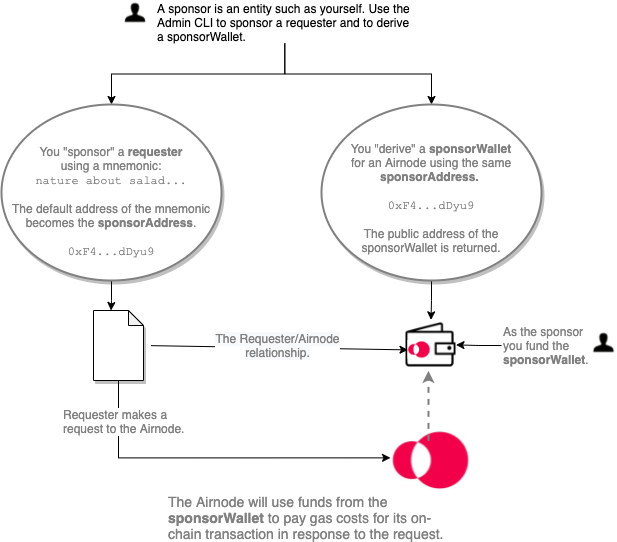
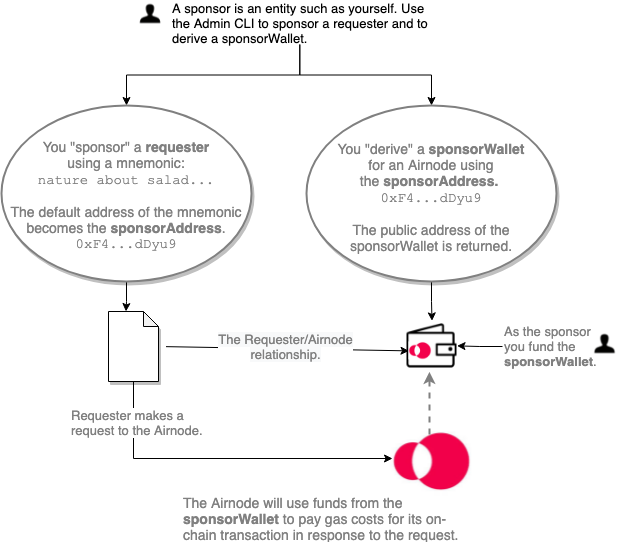
Adjustments to how sponsorships work. This is not the final pass but a basic correction of the concepts. A final pass is need to compress the idea of sponsoring a requester (via a mnemonic) with a `sponsorAddress`.

diff --git a/docs/airnode/v0.3/grp-developers/requesters-sponsors.md b/docs/airnode/v0.3/grp-developers/requesters-sponsors.md
@@ -9,8 +9,8 @@ title: Requesters and Sponsors
 
 As a developer it helps to understand what a **requester** is and what a
 **sponsor** does. They are both important parts of the Airnode ecosystem. This
-doc will further define them and walk you through the process to derive a
-sponsor wallet and to sponsor a requester using the admin CLI commands.
+doc will further define them and walk you through the process of sponsoring a
+requester and deriving a sponsor wallet using the admin CLI commands.
 
 ## What is a Requester?
 
@@ -31,24 +31,21 @@ between requesters and Airnodes.
 
 ### Sponsor's Requester/Airnode Relationships
 
-As a sponsor you will use the address of an Ethereum account _(called a
-[`sponsorAddress`](../concepts/sponsor.md#sponsoraddress))_ from a digital
-wallet you own to "sponsor a requester" and then with the same `sponsorAddress`
-"derive a [`sponsorWallet`](../concepts/sponsor.md#sponsorwallet)" for an
-Airnode. This action creates a relationship between a sponsor's requester and a
-particular Airnode. You do this because a sponsor is the entity that pays for
-the fulfillment of a request, the gas costs the Airnode will incur. These costs
-will be withdrawn from the `sponsorWallet` of the Airnode when the requester
-calls it.
+As a sponsor you will use the mnemonic from a digital wallet you own to
+"**sponsor a requester**" and then use its default account as a
+[sponsorAddress](../concepts/sponsor.md#sponsoraddress) to "**derive a
+[sponsorWallet](../concepts/sponsor.md#sponsorwallet)**" for an Airnode. This
+action creates a relationship between a sponsor's requester and a particular
+Airnode. You do this because a sponsor is the entity that pays for the
+fulfillment of a request, the gas costs the Airnode will incur. These costs will
+be withdrawn from the `sponsorWallet` of the Airnode when the requester calls
+it.
 
 In the diagram below a sponsor uses a mnemonic to sponsor a requester with the
 Admin CLI. The CLI will use the default address of the mnemonic as the
 `sponsorAddress` for the sponsorship. Next the sponsor will derive a
-`sponsorWallet` for an Airnode using the same `sponsorAddress`.
-
-Because the requester was sponsored with the same `sponsorAddress` that was used
-to derive the `sponsorWallet` of the Airnode, the requester can now make
-requests of the Airnode.
+`sponsorWallet` for an Airnode using the `sponsorAddress`. The requester can now
+make requests of the Airnode.
 
 > ![image](../assets/images/sponsor-overview.png)
 
@@ -56,35 +53,45 @@ requests of the Airnode.
 
 In the above diagram it is possible to use the same sponsorAddress
 `(0xF4...dDyu9)` to derive other sponsor wallets for other Airnodes. And it is
-possible to sponsor more than one requester with this same sponsorAddress.
-However it is important to remember that all requesters can now access all the
-Airnodes regardless if they need to. There is no harm in this scenario.
+possible to sponsor more than one requester with the same mnemonic. However it
+is important to remember that all requesters can now access all the Airnodes
+regardless if they need to. There is no harm in this scenario.
 
 ### Advanced Scenarios
 
-- Two requesters sponsored with the same sponsorAddress `(0xF4...dDyu9)` could
-  access the same Airnode having a sponsor wallet derived by sponsorAddress
-  `(0xF4...dDyu9)`.
+- **Two requesters, one Airnode, one sponsorWallet**:
 
-- Using two separate sponsorAddresses (from two different Ethereum accounts),
-  you can derive two separate sponsor wallets for the same Airnode, say
-  `(0xF4...dDyu9)` and `(0xG9...fFzc5)`. Then you can sponsor one requester each
-  with `(0xF4...dDyu9)` and the other with `(0xG9...fFzc5)`. Now each requester
-  will deplete funds from a separate sponsor wallet.
+  Two requesters sponsored with the same mnemonic, which returns a
+  `sponsorAddress` (e.g., `0xF4...dDyu9`), would access the same Airnode using a
+  single sponsorWallet derived by the sponsorAddress.
 
-- You have derived two sponsor wallets for two different Airnodes using
-  different sponsorAddresses, say `(0xF4...dDyu9)` and `(0xG9...fFzc5)`. You
-  have one requester that needs to makes requests from each Airnode. Simply
-  sponsor the requester twice with both sponsorAddresses.
+- **Two requesters, one Airnode, two sponsorWallets**:
+
+  Sponsor two different requesters with different mnemonics which results in
+  each having a separate `sponsorAddress` (e.g., `0xF4...dDyu9` and
+  `0xG9...fFzc5`). Using these separate sponsorAddresses you can derive two
+  separate sponsorWallets for the same Airnode. Now each requester will deplete
+  funds from a separate Airnode sponsorWallet when using the Airnode.
+
+- **One requester, two Airnodes, two sponsorWallets**:
+
+  A requester can make requests from two different Airnodes. Sponsor the
+  requester with a mnemonic where the resulting sponsorship returns a
+  `sponsorAddress`. Derive two sponsorWallets, one for each of two the Airnodes,
+  using the `sponsorAddress`. Despite the fact that the sponsorWallet for each
+  Airnode was derived with the same `sponsorAddress`, the sponsorWallets are
+  different since they are derived using the airnode's xpub plus the
+  `sponsorAddress`. The sponsor must fund both wallets separately using the
+  unique `sponsorWalletAddress` of the two sponsorWallets.
 
 ### Things to Remember
 
-When you sponsor a requester with a sponsorAddress, you are giving it permission
-to use the sponsor wallet associated with the Airnode (created with the same
-sponsorAddress).
+When you sponsor a requester with a mnemonic (returning a `sponsorAddress`), you
+are giving it permission to use the sponsorWallet (associated with a Airnode)
+that was derived using the same `sponsorAddress`.
 
 When the requester makes a request to the Airnode, the Airnode will use funds
-from the corresponding sponsor wallet to pay gas costs in response to the
+from the corresponding sponsorWallet to pay gas costs in response to the
 request. Therefore the sponsor pays for the fulfillment of the request.
 
 ## Admin CLI Commands
@@ -94,35 +101,35 @@ There are several sponsor and requester related commands in the
 see a list of available commands using `npx @api3/airnode-admin --help`.
 
 In the next two sections of this doc you will use two commands from the
-@api3/airnode-admin package to _sponsor a requester_ and to _derive a sponsor
+`@api3/airnode-admin` package to _sponsor a requester_ and to _derive a sponsor
 wallet_.
 
-1. [`sponsor-requester`](../reference/packages/admin-cli.md#sponsor-requester)
+1. [sponsor-requester](../reference/packages/admin-cli.md#sponsor-requester)
    sponsors a requester.
-2. [`derive-sponsor-wallet-address`](../reference/packages/admin-cli.md#derive-sponsor-wallet-address)creates
+2. [derive-sponsor-wallet-address](../reference/packages/admin-cli.md#derive-sponsor-wallet-address)creates
    a sponsor wallet associated with an Airnode.
 
 ## How to Sponsor a Requester
 
-When a sponsor uses the same `sponsorAddress` to "sponsor a requester" and to
-"derive a sponsor wallet" for an Airnode, the requester will have permission to
-make requests to the Airnode on behave of the sponsor. This allows the sponsor
-to cover the gas costs incurred by the Airnode when responding to the request.
-Sponsors need to keep their sponsor wallets topped off if they want Airnodes to
-fulfill requests made by their requesters. However this does not cover the cost
-of API data that the Airnode serves, see
+When a sponsor uses a mnemonic to "sponsor a requester" and the resulting
+'sponsorAddress` to "derive a sponsorWallet" for an Airnode, the requester will
+have permission to make requests to the Airnode on behave of the sponsor. This
+allows the sponsor to cover the gas costs incurred by the Airnode when
+responding to the request. Sponsors need to keep their sponsorWallets topped off
+if they want Airnodes to fulfill requests made by their requesters. However this
+does not cover the cost of API data that the Airnode serves, see
 [API Provider Fees](fees.md#api-provider-fees).
 
 To sponsor a requester execute the `sponsor-requester` command using the
 parameters detailed in the list below. Your requester should already be deployed
 on-chain. This command has transaction gas costs.
 
-- `providerURL` A blockchain provider URL (such as Infura) with providerID for
+- `providerURL`: A blockchain provider URL (such as Infura) with providerID for
   the desired network.
-- `mnemonic` Used for gas costs to fund the sponsorship and used to derive the
-  `sponsorAddress` from the default address. The `sponsorAddress` will be needed
-  to derive a `sponsorWallet` for an Airnode.
-- `requesterAddress` The address of the requester contract.
+- `mnemonic`: Used for gas costs to fund the sponsorship and used to derive the
+  sponsorAddress from the default address. The sponsorAddress will be needed to
+  derive a sponsorWallet for an Airnode.
+- `requesterAddress`: The address of the requester contract.
 
 The command `sponsor-requester` will return the requesterAddress and
 sponsorAddress.
@@ -132,9 +139,9 @@ sponsorAddress.
 ::: tab Linux/Mac
 
 ```bash
-npx @api3/airnode-admin sponsor-requester ^
-  --providerUrl https://ropsten.infura.io/v3/<KEY> ^
-  --mnemonic "cricket...oppose" ^
+npx @api3/airnode-admin sponsor-requester \
+  --providerUrl https://ropsten.infura.io/v3/<KEY> \
+  --mnemonic "cricket...oppose" \
   --requester 0x2c...gDER7
 
 Requester 0x2c...gDER7 sponsored using sponsorAddress 0xF4...dDyu9
@@ -145,9 +152,9 @@ Requester 0x2c...gDER7 sponsored using sponsorAddress 0xF4...dDyu9
 ::: tab Windows
 
 ```
-npx @api3/airnode-admin sponsor-requester \
-  --providerUrl https://ropsten.infura.io/v3/<KEY> \
-  --mnemonic "cricket...oppose" \
+npx @api3/airnode-admin sponsor-requester ^
+  --providerUrl https://ropsten.infura.io/v3/<KEY> ^
+  --mnemonic "cricket...oppose" ^
   --requester 0x2c...gDER7
 
 Requester 0x2c...gDER7 sponsored using sponsorAddress 0xF4...dDyu9
@@ -159,24 +166,26 @@ Requester 0x2c...gDER7 sponsored using sponsorAddress 0xF4...dDyu9
 
 ## How to Derive a Sponsor Wallet
 
-To use a particular Airnode you must _derive a sponsor wallet_. Once the sponsor
-wallet is created it must be funded using the public address returned by the
-command`derive-sponsor-wallet-address`. Each Airnode keeps a separate list of
-individual sponsor wallets that can access the Airnode. Learn more about
-[sponsor wallets](../concepts/sponsor.md#sponsorwallet).
+To use a particular Airnode you must _derive a sponsorWallet_. Once the
+sponsorWallet is created it must be funded using the public address
+(`sponsorWalletAddress`) returned by the command`derive-sponsor-wallet-address`.
+Each Airnode keeps a separate list of individual sponsorWallets that can access
+the Airnode. Learn more about a
+[sponsorWallet](../concepts/sponsor.md#sponsorwallet).
 
-To derive a sponsor wallet for an Airnode execute the
+To derive a sponsorWallet for an Airnode execute the
 `derive-sponsor-wallet-address` command using the parameters detailed in the
 list below. There are no transaction gas costs to do so.
 
-- `providerURL` a blockchain provider URL (such as Infura) with providerID for a
-  desired network
-- `airnode` of address the desired Airnode
-- `sponsor` the sponsorAddress (an address of an Ethereum account) owned by a
-  sponsor
+- `providerURL`: A blockchain provider URL (such as Infura) with providerID for
+  a desired network.
+- `airnode`: The address of the desired Airnode.
+- `sponsor`: The sponsorAddress (an address of an Ethereum account) owned by a
+  sponsor. Usually the sponsorAddress is the one returned when sponsoring a
+  requester.
 
-The command `derive-sponsor-wallet-address` will return the public address of
-the sponsor wallet to be funded by the sponsor.
+The command `derive-sponsor-wallet-address` will return the public address
+(`sponsorWalletAddress`) of the sponsorWallet to be funded by the sponsor.
 
 :::: tabs
 
@@ -208,26 +217,27 @@ Sponsor wallet address: 0x14D5a34E5a370b9951Fef4f8fbab2b1016D557d9
 
 ::::
 
-If you forget the public address of the sponsor wallet simply run
-`derive-sponsor-wallet-address` again. Since the wallet already exists for the
-airnodeAddress/sponsorAddress pair it will just return the address.
+If you forget the public address (`sponsorWalletAddress`) of the sponsorWallet
+simply run `derive-sponsor-wallet-address` again. Since the wallet already
+exists for the airnodeAddress/sponsorAddress pair it will just return the
+address.
 
 <SponsorWalletWarning/>
 
 ## Record Keeping
 
-During and after deriving a sponsor wallets and sponsoring requesters there are
-a few things to keep track of.
+During and after deriving a sponsorWallet and sponsoring requesters there are a
+few things to keep track of.
 
-| Item            | Description                                                                                                                                                                                                                                 |
-| --------------- | ------------------------------------------------------------------------------------------------------------------------------------------------------------------------------------------------------------------------------------------- |
-| requesters      | Record which `sponsorAddress` (from the supplied mnemonic) was used to sponsor a requester.                                                                                                                                                 |
-| sponsor wallets | Record which `sponsorAddress` was used to create a sponsorWallet for an Airnode.                                                                                                                                                            |
-| sponsor wallets | Record the `sponsorWalletAddress` of the sponsorWallet derived for an Airnode. For each Airnode you have derived a sponsorWallet, the Airnode keeps the private key and returns the public address which is used to fund the sponsorWallet. |
+| Item                   | Description                                                                                                                                                                                                                                                          |
+| ---------------------- | -------------------------------------------------------------------------------------------------------------------------------------------------------------------------------------------------------------------------------------------------------------------- |
+| sponsor's mnemonc      | The mnemonic used by the sponsor when sponsoring a requester.                                                                                                                                                                                                        |
+| sponsor address        | Derived from the sponsor's mnemonic (default account) when sponsoring a requester. Record which `sponsorAddress` was used to create a sponsorWallet for each Airnode.                                                                                                |
+| sponsor wallet address | Record the `sponsorWalletAddress` of the sponsorWallet derived for an Airnode. For each Airnode you have derived a sponsorWallet, the Airnode keeps the private key and returns the public address (`sponsorWalletAddress`) which is used to fund the sponsorWallet. |
 
-You can acquire the public address of a sponsorWallet later, if you loose it, by
-running the command `derive-sponsor-wallet-address` again. Since the
-sponsorWallet was already created for the sponsorAddress/airnodeAddress pair,
-the command will only return the public address for the wallet. However you must
-use the same sponsorAddress used when the wallet was first created or a new
-sponsorWallet will be created.
+You can acquire the public address (`sponsorWalletAddress`) of a sponsorWallet
+later, if you loose it, by running the command `derive-sponsor-wallet-address`
+again. Since the sponsorWallet was already created for the
+`sponsorAddress/airnodeAddress` pair, the command will only return the public
+address for the wallet. However you must use the same `sponsorAddress` used when
+the wallet was first created or a new sponsorWallet will be created.

diff --git a/docs/airnode/v0.3/concepts/sponsor.md b/docs/airnode/v0.3/concepts/sponsor.md
@@ -136,10 +136,12 @@ deleted, and can be used in the future simply by funding it again.
 
 ## Sponsoring a Requester
 
-A sponsor uses a `sponsorAddress` and there the requester's on-chain
-`requesterAddress` when sponsoring a requester. This sponsorship allows the
-requester to use the sponsor's `sponsorWallet` at a particular Airnode to cover
-gas costs incurred by the Airnode in response to a request.
+A sponsor uses a mnemonic and a requester's on-chain `requesterAddress` to
+sponsor a requester. This sponsorship uses the default account of the mnemonic
+(known as the `sponsorAddress`) to create the relationship. It is possible to
+use a different account from the the mnemonic if desired. This sponsorship
+allows the requester to use the sponsor's `sponsorWallet` for a particular
+Airnode to cover gas costs incurred by the Airnode in response to a request.
 
 Use the [Admin CLI tool](../reference/packages/admin-cli.md#sponsor-requester)
 to sponsor a requester. An example can be seem in the

diff --git a/docs/airnode/v0.3/grp-developers/call-an-airnode.md b/docs/airnode/v0.3/grp-developers/call-an-airnode.md
@@ -165,7 +165,7 @@ parameters to pass on to `airnode.makeFullRequest`.
 
   In most cases the parameters will be encoded off-chain and passed to the
   requester which will only forward them. You can use the
-  [@api3/airnode-abi]()../reference/specifications/airnode-abi-specifications.html#api3-airnode-abi)
+  [@api3/airnode-abi](../reference/specifications/airnode-abi-specifications.html#api3-airnode-abi)
   package for the encoding and decoding. Take a look at the javascript snippet
   below.
 
